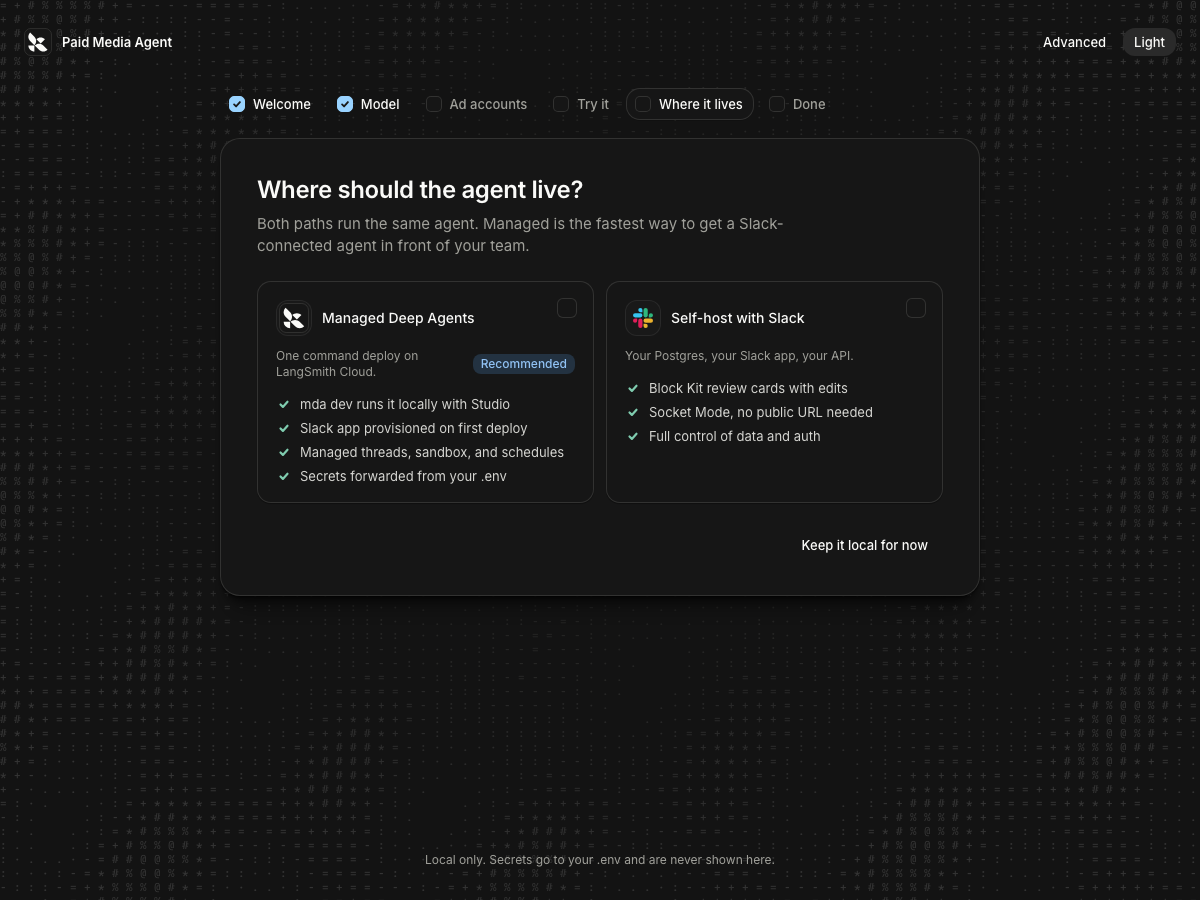
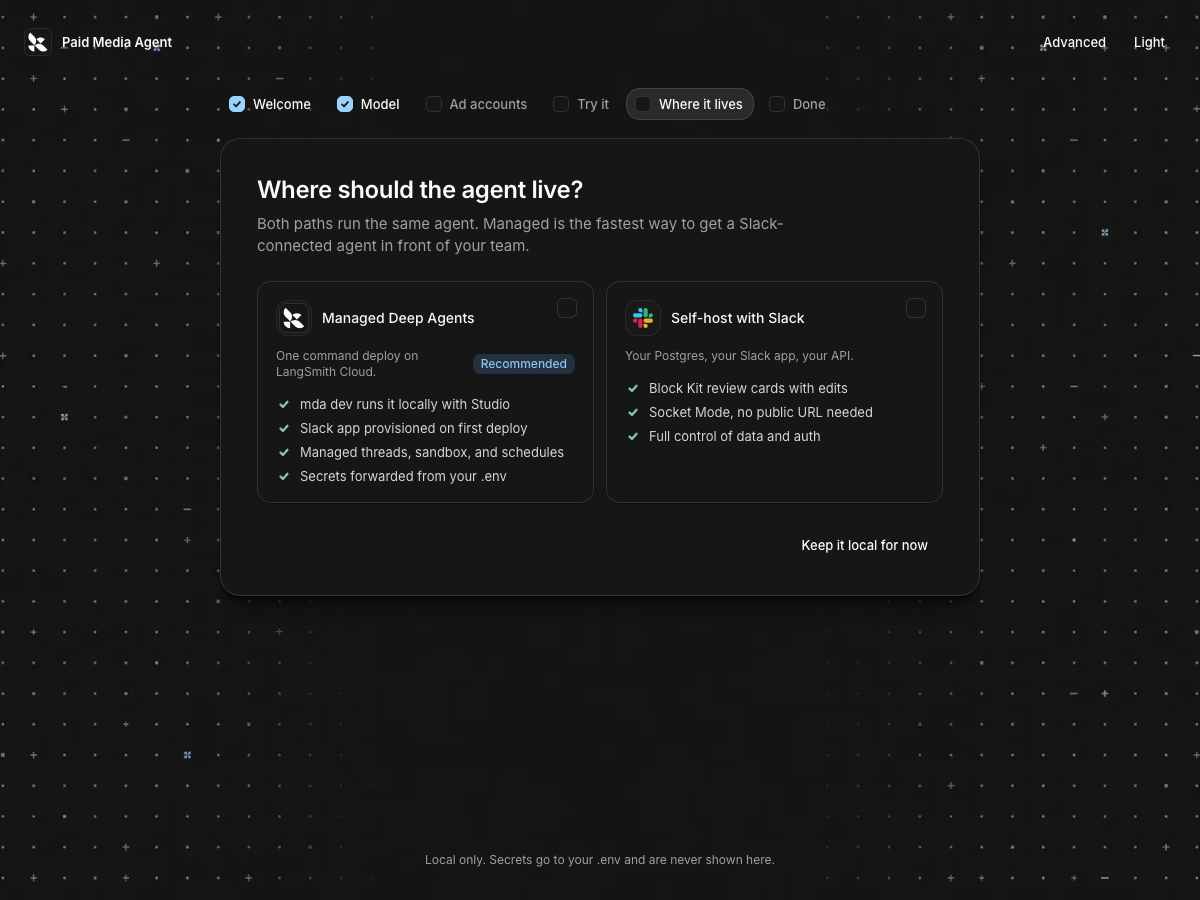
Add generated onboarding art
- gpt-image-2 backgrounds (light and dark glyph fields) and three capability tiles as WebP
- backgrounds switch with the theme in CSS; tiles are images with inline SVG fallbacks
- console serves WebP; canvas glyph field removed; screenshots refreshed

diff --git a/src/paid_media_agent/admin/static/app.js b/src/paid_media_agent/admin/static/app.js
@@ -179,7 +179,13 @@
       el("div", { class: "status-line", id: "welcome-status" }),
     ];
   }
-  const cap = (art, name, note) => el("div", { class: "cap" }, [el("div", { class: "art-tile", html: ILLUSTRATIONS[art] }), el("span", { class: "name", text: name }), el("span", { class: "note", text: note })]);
+  const cap = (art, name, note) => {
+    const tile = el("div", { class: "art-tile" });
+    const img = el("img", { src: `/static/art-${art}.webp`, alt: "", decoding: "async" });
+    img.addEventListener("error", () => { tile.innerHTML = ILLUSTRATIONS[art]; });
+    tile.append(img);
+    return el("div", { class: "cap" }, [tile, el("span", { class: "name", text: name }), el("span", { class: "note", text: note })]);
+  };
 
   async function demoInline(button) {
     const line = $("#welcome-status");
@@ -550,7 +556,6 @@
     document.documentElement.setAttribute("data-theme", theme);
     $("#theme-toggle").textContent = theme === "dark" ? "Light" : "Dark";
     try { localStorage.setItem("pma-admin-theme", theme); } catch (_) { /* ignore */ }
-    if (typeof drawArt === "function") drawArt();
   }
 
   // ---- advanced view (dense routes over the same actions)
@@ -776,43 +781,6 @@
     catch (_) { button.textContent = "Select and copy"; }
   }
 
-  // ---- background: a still glyph field, low contrast, redrawn on theme change and resize
-  function drawArt() {
-    const canvas = $("#art");
-    if (!canvas) return;
-    const dpr = Math.min(window.devicePixelRatio || 1, 2);
-    const w = window.innerWidth, h = window.innerHeight;
-    canvas.width = Math.floor(w * dpr); canvas.height = Math.floor(h * dpr);
-    const ctx = canvas.getContext("2d");
-    ctx.setTransform(dpr, 0, 0, dpr, 0, 0);
-    ctx.clearRect(0, 0, w, h);
-    const dark = document.documentElement.getAttribute("data-theme") === "dark";
-    const glyphs = " .·:-=+*#%@";
-    const cell = 14;
-    ctx.font = "500 11px IBM Plex Mono, ui-monospace, monospace";
-    ctx.textBaseline = "top";
-    let seed = 7;
-    const rnd = () => { seed = (seed * 1103515245 + 12345) & 0x7fffffff; return seed / 0x7fffffff; };
-    const cols = Math.ceil(w / cell), rows = Math.ceil(h / cell);
-    const cx = w / 2, cy = h * 0.42, rx = Math.max(w * 0.34, 360), ry = Math.max(h * 0.4, 300);
-    for (let r = 0; r < rows; r += 1) {
-      for (let c = 0; c < cols; c += 1) {
-        const x = c * cell, y = r * cell;
-        const dx = (x - cx) / rx, dy = (y - cy) / ry;
-        const dist = Math.sqrt(dx * dx + dy * dy);
-        const fade = Math.min(1, Math.max(0, (dist - 0.55) / 0.9));
-        const wave = 0.5 + 0.5 * Math.sin(c * 0.35 + r * 0.22) * Math.cos(r * 0.17 - c * 0.11);
-        const level = Math.floor(Math.min(1, wave * (0.35 + 0.65 * fade) + rnd() * 0.08) * (glyphs.length - 1));
-        if (level <= 0) continue;
-        const alpha = (dark ? 0.16 : 0.13) * (0.4 + 0.6 * fade);
-        ctx.fillStyle = dark ? `rgba(250,250,248,${alpha})` : `rgba(51,51,51,${alpha})`;
-        ctx.fillText(glyphs[level], x, y);
-      }
-    }
-  }
-  let artTimer = 0;
-  window.addEventListener("resize", () => { clearTimeout(artTimer); artTimer = setTimeout(drawArt, 120); });
-
   // ---- boot
   readFragment();
   let theme = "light";
@@ -821,8 +789,6 @@
   $("#theme-toggle").addEventListener("click", () => applyTheme(document.documentElement.getAttribute("data-theme") === "dark" ? "light" : "dark"));
   $("#view-toggle").addEventListener("click", () => { state.view = state.view === "advanced" ? "wizard" : "advanced"; render(); });
   window.addEventListener("hashchange", () => { readFragment(); render(); });
-  document.fonts?.ready?.then(drawArt).catch(() => drawArt());
-  drawArt();
   loadStatus().catch(showFatal);
   setInterval(() => { if (state.processes.some((p) => p.running)) loadStatus().catch(() => {}); }, 4000);
 })();

diff --git a/src/paid_media_agent/admin/static/app.css b/src/paid_media_agent/admin/static/app.css
@@ -40,8 +40,9 @@ a:hover { text-decoration: underline; }
 .meta { font-size: 12px; line-height: 16px; font-weight: 500; }
 .caps { font-size: 12px; line-height: 16px; font-weight: 500; letter-spacing: 0.08em; text-transform: uppercase; color: var(--ink-subtle); }
 
-/* Background art: a quiet glyph field drawn on a canvas; the card stays the focus */
-.art { position: fixed; inset: 0; width: 100%; height: 100%; pointer-events: none; z-index: 0; opacity: 0.9; }
+/* Background art: generated glyph field (gpt-image-2), one per theme; the card stays the focus */
+body { background: var(--desk) url("/static/art-bg-light.webp") center / cover no-repeat fixed; }
+[data-theme="dark"] body { background-image: url("/static/art-bg-dark.webp"); }
 /* Frame */
 .desk { position: relative; z-index: 1; min-height: 100vh; padding: 20px 24px 32px; display: flex; flex-direction: column; align-items: center; gap: 24px; }
 .topbar { width: min(1280px, 100%); display: flex; align-items: center; justify-content: space-between; min-height: 44px; }
@@ -258,8 +259,10 @@ table.data .mono { color: var(--ink-muted); white-space: nowrap; }
 /* Welcome: capability cards with small illustrations, and example prompts */
 .caps-grid { display: grid; grid-template-columns: repeat(auto-fit, minmax(200px, 1fr)); gap: 12px; }
 .cap { display: flex; flex-direction: column; gap: 10px; padding: 16px; border-radius: var(--r-control); border: 1px solid var(--line); background: var(--muted); }
-.cap .art-tile { height: 64px; border-radius: var(--r-badge); border: 1px solid var(--line); background: var(--panel); display: grid; place-items: center; overflow: hidden; }
+.cap .art-tile { height: 104px; border-radius: var(--r-badge); border: 1px solid var(--line); background: #fbfbfa; display: grid; place-items: center; overflow: hidden; }
 .cap .art-tile svg { width: 100%; height: 100%; }
+.cap .art-tile img { width: 100%; height: 100%; object-fit: cover; display: block; }
+[data-theme="dark"] .cap .art-tile { background: #fbfbfa; border-color: var(--line-strong); }
 .cap .name { font-size: 13px; line-height: 16px; font-weight: 500; }
 .cap .note { font-size: 12px; line-height: 16px; color: var(--ink-subtle); text-wrap: pretty; }
 .prompts { display: flex; flex-wrap: wrap; gap: 8px; }

diff --git a/src/paid_media_agent/admin/static/index.html b/src/paid_media_agent/admin/static/index.html
@@ -11,7 +11,6 @@
   <link rel="stylesheet" href="/static/app.css">
 </head>
 <body>
-  <canvas id="art" class="art" aria-hidden="true"></canvas>
   <div class="desk">
     <header class="topbar">
       <div class="brand">

diff --git a/src/paid_media_agent/admin/server.py b/src/paid_media_agent/admin/server.py
@@ -127,6 +127,7 @@ def create_console_app(
             ".css": "text/css",
             ".js": "text/javascript",
             ".svg": "image/svg+xml",
+            ".webp": "image/webp",
             ".html": "text/html",
         }.get(path.suffix, "application/octet-stream")
         return FileResponse(path, media_type=media)

diff --git a/log.md b/log.md
@@ -87,3 +87,14 @@ entries except to correct a factual typo with an explicit correction entry.
   graph on port 2024, path choice, MDA preflight, dark theme; zero browser errors.
 - No OpenAI key was available in this environment, so the welcome art is procedural (canvas glyph
   field and inline SVG); generated images can replace it under `admin/static/`.
+
+## 2026-09-02 (generated onboarding art)
+
+- Generated the welcome art with gpt-image-2 through the LangSmith LLM Gateway's direct OpenAI
+  path (`gateway.smith.langchain.com/openai/v1`): two backgrounds (light and dark glyph fields
+  that fade to a clear center) and three capability tiles, all in the CORE 14 palette with no text.
+  Converted to WebP (18 KB backgrounds, 2 to 4 KB tiles) under `admin/static/art-*.webp`.
+- Backgrounds switch with the theme in CSS; tiles are `<img>` elements with the inline SVG as an
+  error fallback. The canvas glyph field is gone.
+- The prompt pipeline lives outside the repository (it needs an image-capable key); assets are
+  regenerated by re-running it and dropping the WebP files in place.

diff --git a/CHANGELOG.md b/CHANGELOG.md
@@ -9,6 +9,8 @@
   with an in-page question and LangGraph Studio, managed vs self-hosted path) plus an advanced view
   over the same host actions as the CLI (`config`, `accounts`, `catalog`, `policy`, `test`, `mda`,
   `writes`).
+- Generated onboarding art (gpt-image-2): light and dark glyph-field backgrounds and three
+  capability tiles, shipped as small WebP files with inline SVG fallbacks.
 - `langgraph.json` and a graph factory for LangGraph Server and Studio; `studio` extra.
 - Provider extras for Groq, xAI, Mistral, and DeepSeek; OpenAI-compatible presets (OpenRouter,
   Moonshot, Zhipu) through `PAID_MEDIA_MODEL_BASE_URL` and `PAID_MEDIA_MODEL_API_KEY_ENV`.

diff --git a/README.md b/README.md
@@ -87,6 +87,7 @@ The page binds to localhost, needs the per-run token from the printed link, writ
 local `.env` (mode 0600), and never displays a secret value.
 
 ![Setup welcome](docs/screenshots/setup-welcome.png)
+![Setup welcome, dark theme](docs/screenshots/setup-welcome-dark.png)
 ![Choose a model](docs/screenshots/setup-model.png)
 ![Try it with LangGraph Studio](docs/screenshots/setup-try-studio.png)
 ![Where it lives, dark theme](docs/screenshots/setup-path-dark.png)
